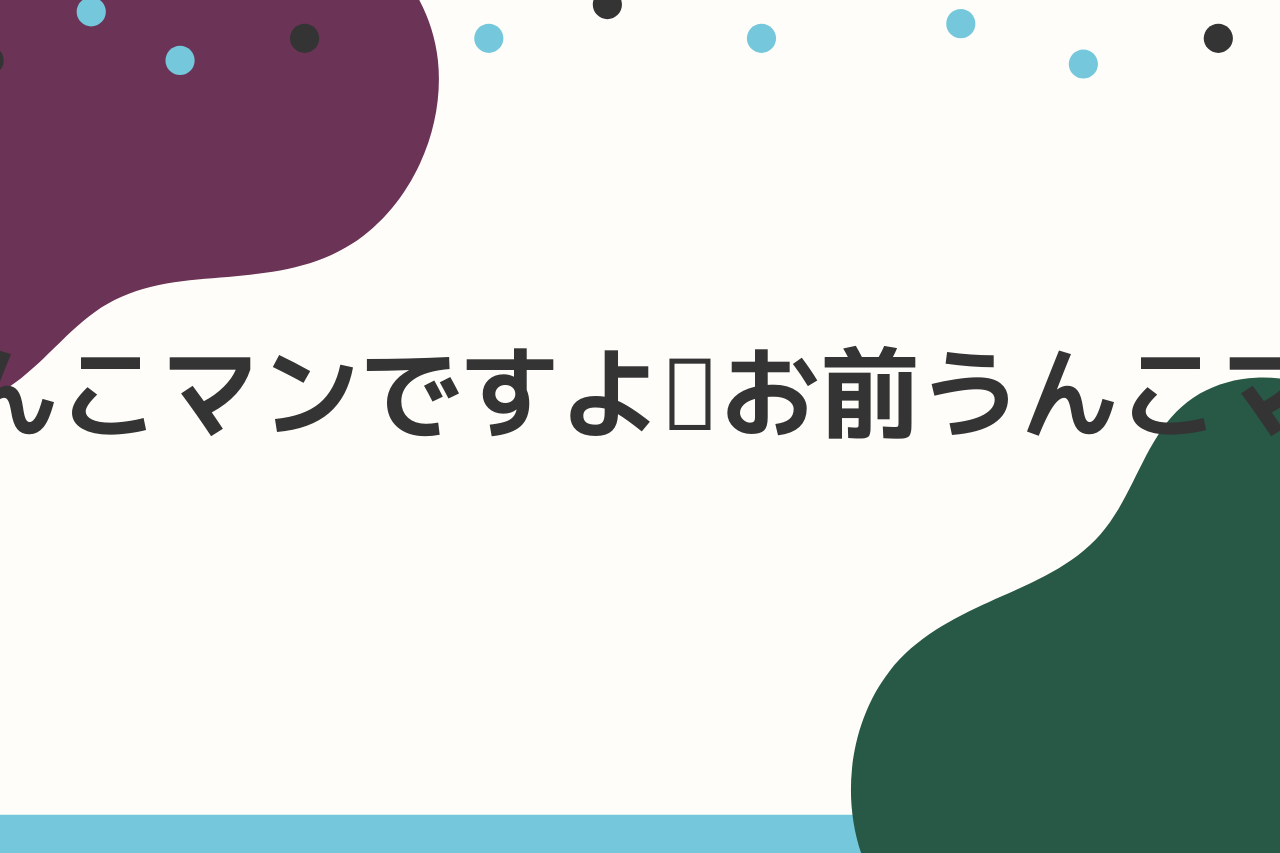
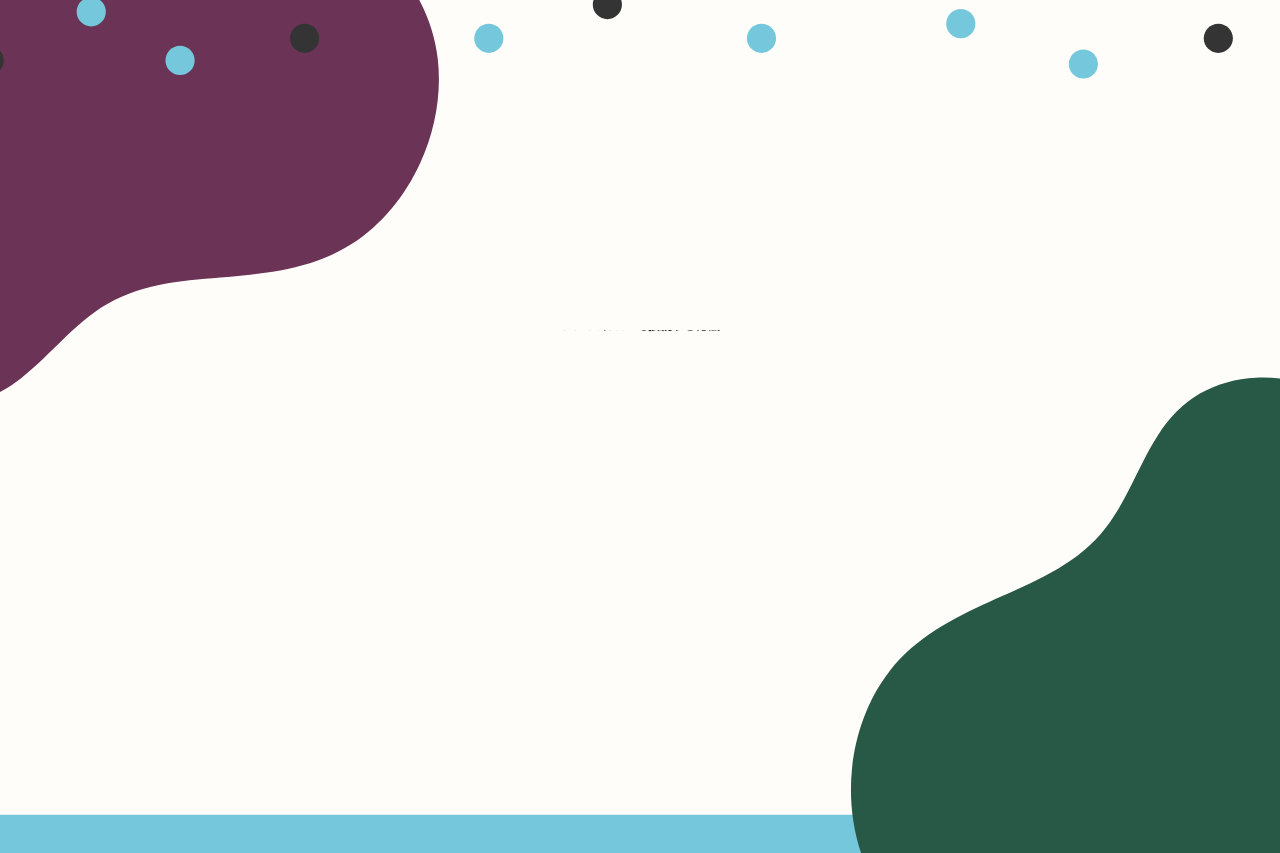
:sparkles: echo-serverの追加 (echo-server/go.mod echo-server/go.sum echo-server/main.go image-create-and-synthetic-go/image-create.go image-create-and-synthetic-go/images/char.png image-create-and-synthetic-go/synthetic.png)

Changed region(s): [[0.0, 0.3962, 0.9375, 0.5182], [0.9688, 0.3962, 1.0, 0.5182]]

diff --git a/echo-server/main.go b/echo-server/main.go
@@ -1,0 +1,33 @@
+package main
+
+import (
+	"net/http"
+
+	"github.com/labstack/echo/v4"
+	"github.com/labstack/echo/v4/middleware"
+)
+
+func main() {
+	// インスタンスを作成
+	e := echo.New()
+
+	e.Use(middleware.CORSWithConfig(middleware.CORSConfig{
+		AllowOrigins: []string{"https://v-sli.me", "https://ogp-api.v-sli.me"},
+		AllowMethods: []string{http.MethodGet, http.MethodPut, http.MethodPost, http.MethodDelete},
+	}))
+
+	// ミドルウェアを設定
+	e.Use(middleware.Logger())
+	e.Use(middleware.Recover())
+
+	// ルートを設定
+	e.GET("/", hello) // ローカル環境の場合、http://localhost:1323/ にGETアクセスされるとhelloハンドラーを実行する
+
+	// サーバーをポート番号1323で起動
+	e.Logger.Fatal(e.Start(":1323"))
+}
+
+// ハンドラーを定義
+func hello(c echo.Context) error {
+	return c.String(http.StatusOK, "Hello, World!")
+}

diff --git a/image-create-and-synthetic-go/image-create.go b/image-create-and-synthetic-go/image-create.go
@@ -31,7 +31,7 @@ func main() {
 
 	var imageWidth int = 1280
 	var imageHeight int = 510
-	text := "うんこマンですよ\nお前うんこマン"
+	text := "GitHubにSSHで接続する方法"
 	textLength := utf8.RuneCountInString(text)
 
 	var fontsize float64
@@ -43,7 +43,6 @@ func main() {
 	} else if textLength <= 15 {
 		fontsize = 70
 	}
-	fontsize = 100
 	opt := truetype.Options{
 		Size:              fontsize,
 		DPI:               0,
